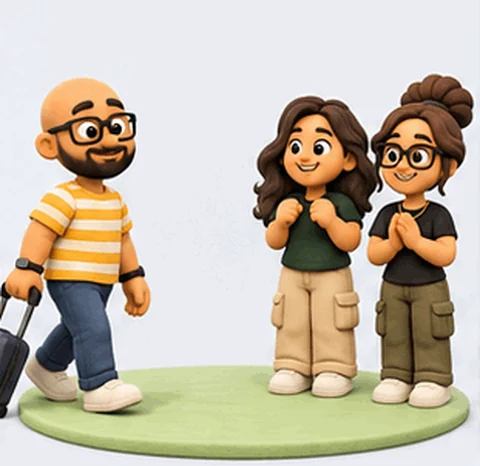
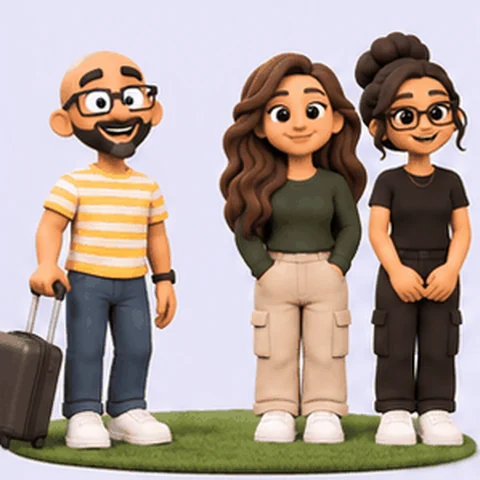
Group scenes redo: Kiru in kiru-v2 colours in all six; welcome-dushy black trousers, welcome-ali starts with Ali in frame
Claude-Session: https://claude.ai/code/session_01M9MLSzTgGmRpDx4quWz9qx

diff --git a/design/gen/status.md b/design/gen/status.md
@@ -166,12 +166,12 @@ Generated in ChatGPT, checked frame by frame, converted to 256x256 animated WebP
 | kiru/travel/idle | done | 1 | colour redo Nov 19 (sprite sheet, kiru-v2 colours): cream cardigan, crossbody bag strap, sunglasses pushed up on the bun; aligned to frame 0 (sheet drifted up to 6 px sideways); blink frames 5-9 |
 | kiru/travel/wave | done | 1 | colour redo Nov 19 (sprite sheet, kiru-v2 colours): sunglasses on the bun, bag strap; same hand waves on the left (motion blur frames 5-6); white motion lines frames 4-6; two blinks |
 | kiru/travel/travel | done | 1 | colour redo Nov 19 (sprite sheet, kiru-v2 colours): ONE suitcase handle in the same hand at the bottom right in every frame; gentle walking bob (up to 3 px); sunglasses on the bun |
-| group/hello | done | 3 | redone with Kiru v2 look; 2 versions rejected (ghost second glass in one frame; glass switching hands + figures cut off); final: Kiru holds ONE glass in the same hand in all 16 frames (checked frame by frame) |
-| group/hug | done | 0 | home outfits |
-| group/welcome-dushy | done | 0 | Dushy steps in from the left edge (suitcase cut at the edge in first frames); Kiru's trousers came out olive instead of black |
-| group/welcome-ali | done | 0 | arrival plays once per loop: Ali enters from the right, so frame 0 (without Ali) differs from the last frame; restart reads as a replay after the 2.5 s pause |
-| group/welcome-kiru | done | 0 | frames 8-15 drifted down up to 12 px with a strip of another frame at the top; re-aligned the frames and cropped 13 px rows in conversion |
-| group/birthday | done | 0 | party hats tight at the top edge |
+| group/hello | done | 4 | Kiru colour redo Nov 19 (sprite sheet, 3 refs): 4x4 sheet; Kiru holds ONE tea glass in her left hand in all 16 frames and waves with the right; Dushy and Ali wave; one blink each |
+| group/hug | done | 1 | Kiru colour redo Nov 19 (sprite sheet, 3 refs): home outfits (Ali floral green nighty, Dushy charcoal tee + olive shorts, Kiru floral pink nighty); step in to a group hug and back; Dushy head comes within ~4 px of the top in frames 6-8 |
+| group/welcome-dushy | done | 1 | Kiru colour redo Nov 19 (sprite sheet, 3 refs): Kiru trousers now BLACK; Dushy visible from frame 0 at the left with ONE dark suitcase, steps in and waves; suitcase touches the left edge in frames 0-2 |
+| group/welcome-ali | done | 1 | Kiru colour redo Nov 19 (sprite sheet, 3 refs): Ali now visible in frame 0 at the right with ONE peach suitcase, steps in and waves, steps back (loop no longer starts empty); suitcase touches the right edge in some frames |
+| group/welcome-kiru | done | 1 | Kiru colour redo Nov 19 (sprite sheet, 3 refs): Kiru on the right with ONE black suitcase in the same hand in every frame; Dushy cheers, Ali claps; suitcase close to the right edge |
+| group/birthday | done | 1 | Kiru colour redo Nov 19 (sprite sheet, 3 refs): party hats (Dushy blue, Ali pink, Kiru purple), hat tips 7-8 px below the top; Ali holds ONE cake with ONE candle in every frame; Dushy and Kiru clap |
 | sheets/wardrobe-v1 | done | 1 | first try came out as an animated pan; asked again for a still |
 | sheets/expressions-v1 | done | 0 | 8 expressions x 3 people |
 | sheets/outfits-daily-v1 | done | 0 | columns: work2, work3, out2, out3, out4, home2 |
@@ -236,7 +236,7 @@ Reference measurements (tools: /tmp/tools/colour.py; median Lab over sampled fra
 | kiru/work3/wave | done | 4.1 | 2.1 | same hand waves at the left edge (partly cut in frames 6-9); one blink |
 | dushy/out/idle | skipped |  |  | skipped on request: user to choose the correct Dushy look first |
 
-### Group scenes: Kiru colour check (listed, not redone)
+### Group scenes: Kiru colour check before the redo
 
 Measured on frame 0 of each group still with colour.py on a crop around Kiru (crop can include a bit of a neighbour's hair; group scenes also use a lighter grey backdrop/lighting). Reference: skin L 64.4, hair L 19.9.
 
@@ -247,4 +247,86 @@ Measured on frame 0 of each group still with colour.py on a crop around Kiru (cr
 - group/welcome-kiru: OFF - skin dE 15.0 (L 80.1); hair dE 10.5 (L 32.9)
 - group/birthday: OFF - skin dE 11.5 (L 77.0); hair dE 13.3 (L 35.4)
 
-All six group scenes show Kiru with lighter skin than kiru-v2 (visually peach-tan, closer to the drifted set); not redone (list only).
+All six group scenes show Kiru with lighter skin than kiru-v2 (visually peach-tan, closer to the drifted set); redone Nov 19, see "Group scenes redo" below.
+
+## Group scenes redo (Kiru colours, Nov 19)
+
+Method: ChatGPT 4x4 sprite sheet (1254x1254, square cells) with three references pasted every prompt (dushy/work/idle frame, ali/out/idle frame, kiru-v2.png) plus an explicit Kiru colour line. Sliced with /tmp/gp/gsheet.py (gutters = min channel >= 249, alignment on the grass base), ~300x300 frames at 180 ms, converted with conv.py width mode (480 px wide, 16 frames). Sheets in design/gen/sheets-colour/group-<scene>.png; old GIFs kept as design/gen/group/<scene>-oldcolour.gif (Mac).
+Colour: colour.py on a crop around Kiru (her column, top 62% of the frame) of the animated WebP, all 16 frames sampled; old and new measured the same way. This crop method reads the old files milder than the earlier frame-0 measurement listed below (e.g. hello 6.5 here vs 11.6 there), skin is lower on five of six scenes (welcome-ali about the same at 7.7, visually close to kiru-v2) and all six pass skin <= 9.0 / hair <= 9.5.
+
+| scene | state | Kiru skin dE old -> new | Kiru hair dE old -> new | note |
+|---|---|---|---|---|
+| group/hello | done | 6.5 -> 3.3 | 3.0 -> 4.3 | 4x4 sheet; Kiru holds ONE tea glass in her left hand in all 16 frames and waves with the right; Dushy and Ali wave; one blink each |
+| group/hug | done | 9.1 -> 2.6 | 12.1 -> 3.9 | home outfits (Ali floral green nighty, Dushy charcoal tee + olive shorts, Kiru floral pink nighty); step in to a group hug and back; Dushy head comes within ~4 px of the top in frames 6-8 |
+| group/welcome-dushy | done | 9.7 -> 6.0 | 10.3 -> 4.4 | Kiru trousers now BLACK; Dushy visible from frame 0 at the left with ONE dark suitcase, steps in and waves; suitcase touches the left edge in frames 0-2 |
+| group/welcome-ali | done | 7.6 -> 7.7 | 8.0 -> 6.0 | Ali now visible in frame 0 at the right with ONE peach suitcase, steps in and waves, steps back (loop no longer starts empty); suitcase touches the right edge in some frames |
+| group/welcome-kiru | done | 11.1 -> 6.5 | 13.2 -> 6.8 | Kiru on the right with ONE black suitcase in the same hand in every frame; Dushy cheers, Ali claps; suitcase close to the right edge |
+| group/birthday | done | 8.4 -> 6.3 | 9.8 -> 3.7 | party hats (Dushy blue, Ali pink, Kiru purple), hat tips 7-8 px below the top; Ali holds ONE cake with ONE candle in every frame; Dushy and Kiru clap |
+
+## Festival outfits (idle + wave)
+
+
+| item | state | skin dE | hair dE | note |
+|---|---|---|---|---|
+| dushy/christmas/idle | pending |  |  |  |
+| dushy/christmas/wave | pending |  |  |  |
+| ali/christmas/idle | pending |  |  |  |
+| ali/christmas/wave | pending |  |  |  |
+| kiru/christmas/idle | pending |  |  |  |
+| kiru/christmas/wave | pending |  |  |  |
+| dushy/new-year/idle | pending |  |  |  |
+| dushy/new-year/wave | pending |  |  |  |
+| ali/new-year/idle | pending |  |  |  |
+| ali/new-year/wave | pending |  |  |  |
+| kiru/new-year/idle | pending |  |  |  |
+| kiru/new-year/wave | pending |  |  |  |
+| dushy/pongal/idle | pending |  |  |  |
+| dushy/pongal/wave | pending |  |  |  |
+| ali/pongal/idle | pending |  |  |  |
+| ali/pongal/wave | pending |  |  |  |
+| kiru/pongal/idle | pending |  |  |  |
+| kiru/pongal/wave | pending |  |  |  |
+| dushy/thaipusam/idle | pending |  |  |  |
+| dushy/thaipusam/wave | pending |  |  |  |
+| ali/thaipusam/idle | pending |  |  |  |
+| ali/thaipusam/wave | pending |  |  |  |
+| kiru/thaipusam/idle | pending |  |  |  |
+| kiru/thaipusam/wave | pending |  |  |  |
+| dushy/chinese-new-year/idle | pending |  |  |  |
+| dushy/chinese-new-year/wave | pending |  |  |  |
+| kiru/chinese-new-year/idle | pending |  |  |  |
+| kiru/chinese-new-year/wave | pending |  |  |  |
+| dushy/hari-raya/idle | pending |  |  |  |
+| dushy/hari-raya/wave | pending |  |  |  |
+| ali/hari-raya/idle | pending |  |  |  |
+| ali/hari-raya/wave | pending |  |  |  |
+| kiru/hari-raya/idle | pending |  |  |  |
+| kiru/hari-raya/wave | pending |  |  |  |
+| dushy/puthandu/idle | pending |  |  |  |
+| dushy/puthandu/wave | pending |  |  |  |
+| kiru/puthandu/idle | pending |  |  |  |
+| kiru/puthandu/wave | pending |  |  |  |
+| dushy/hari-raya-haji/idle | pending |  |  |  |
+| dushy/hari-raya-haji/wave | pending |  |  |  |
+| ali/hari-raya-haji/idle | pending |  |  |  |
+| ali/hari-raya-haji/wave | pending |  |  |  |
+| kiru/hari-raya-haji/idle | pending |  |  |  |
+| kiru/hari-raya-haji/wave | pending |  |  |  |
+| dushy/merdeka/idle | pending |  |  |  |
+| dushy/merdeka/wave | pending |  |  |  |
+| ali/merdeka/idle | pending |  |  |  |
+| ali/merdeka/wave | pending |  |  |  |
+| kiru/merdeka/idle | pending |  |  |  |
+| kiru/merdeka/wave | pending |  |  |  |
+| dushy/malaysia-day/idle | pending |  |  |  |
+| dushy/malaysia-day/wave | pending |  |  |  |
+| ali/malaysia-day/idle | pending |  |  |  |
+| ali/malaysia-day/wave | pending |  |  |  |
+| kiru/malaysia-day/idle | pending |  |  |  |
+| kiru/malaysia-day/wave | pending |  |  |  |
+| dushy/deepavali/idle | pending |  |  |  |
+| dushy/deepavali/wave | pending |  |  |  |
+| ali/deepavali/idle | pending |  |  |  |
+| ali/deepavali/wave | pending |  |  |  |
+| kiru/deepavali/idle | pending |  |  |  |
+| kiru/deepavali/wave | pending |  |  |  |
